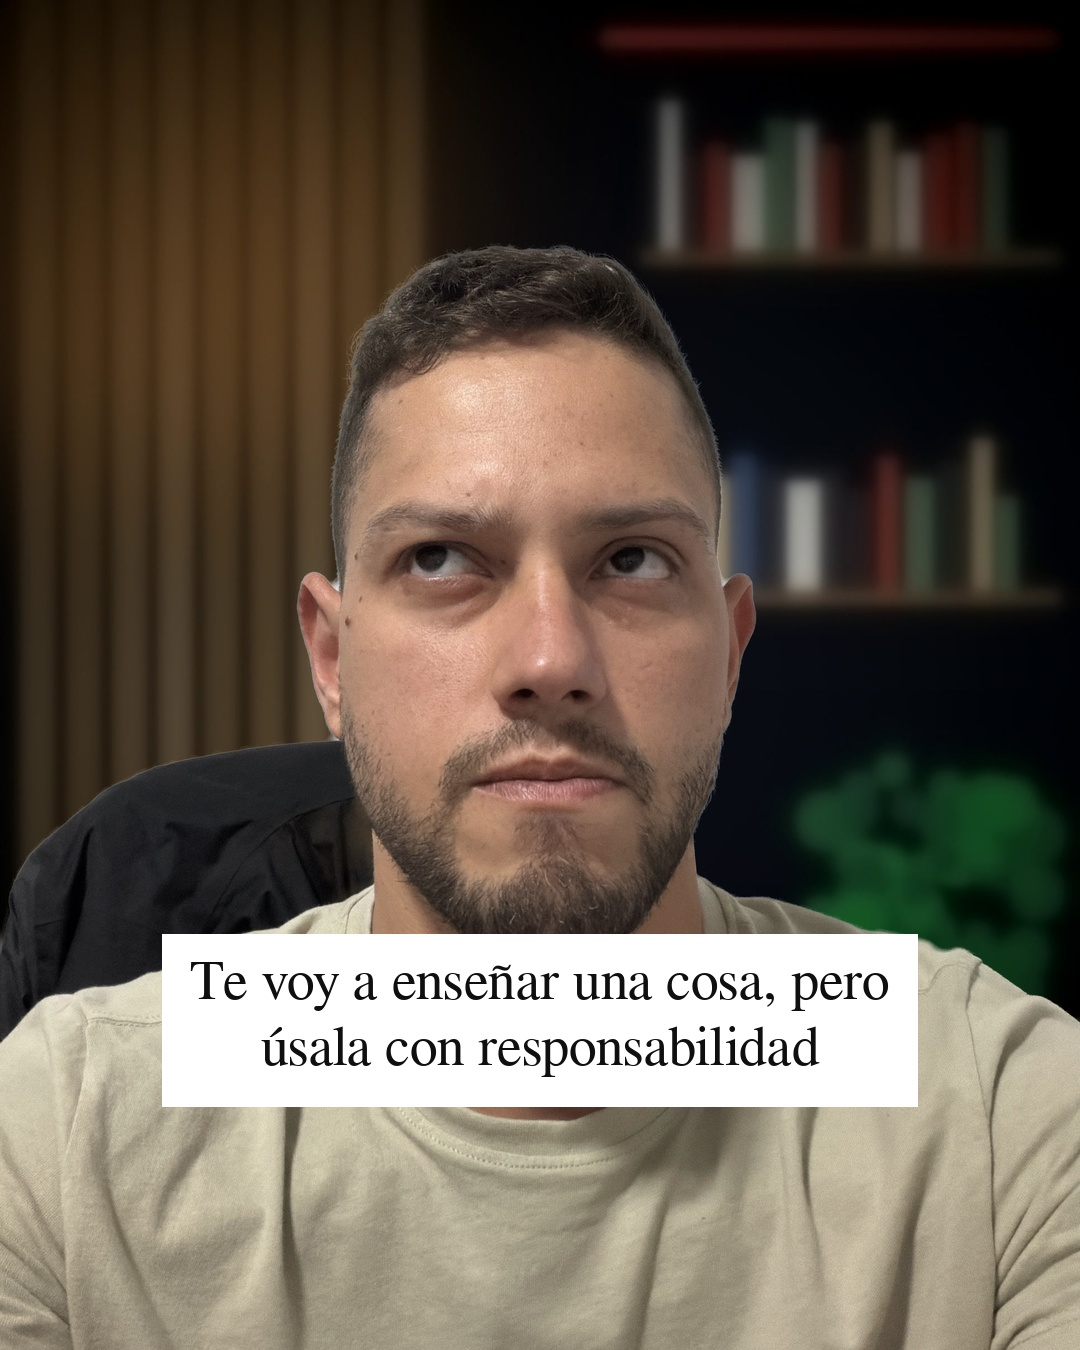
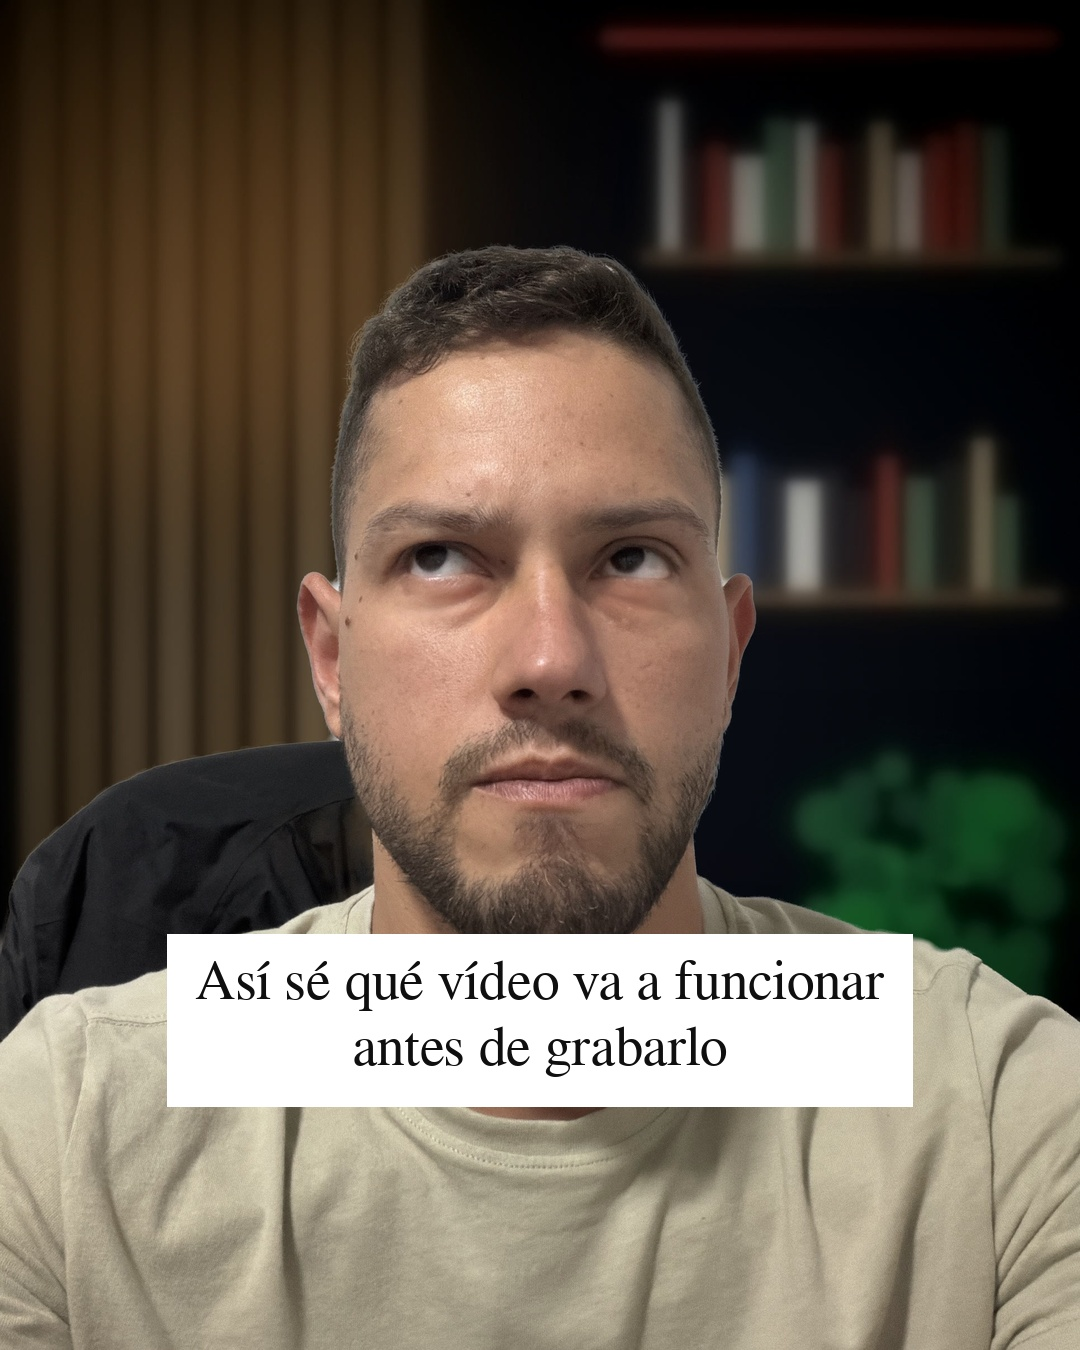
carrusel truco Claude: nueva portada y retoque (S44)
Claude-Session: https://claude.ai/code/session_019DyBrHCbMVoQvLSjnT47qN

Changed region(s): [[0.1833, 0.6844, 0.8556, 0.8089], [0.55, 0.4044, 0.6417, 0.4667], [0.3667, 0.4044, 0.4583, 0.4667]]

diff --git a/semanas/2026-S44/instagram/2026-10-29_carrusel-truco-claude.md b/semanas/2026-S44/instagram/2026-10-29_carrusel-truco-claude.md
@@ -5,7 +5,7 @@ Plataforma: Instagram (carrusel, 8 diapositivas) / TikTok (fotos) · Tipo: carru
 Basado en la estructura de un carrusel brasileño (luanamariamarina), cambiando lo que enseñaba (sacar datos de seguidores, problema legal) por un análisis de contenido público.
 Fotos de Breno con el fondo de la oficina cambiado por el estudio. Capturas reales de su Claude; chats de la barra lateral fuera y la cara de la creadora del reel difuminada.
 
-1. Te voy a enseñar una cosa, pero úsala con responsabilidad
+1. Así sé qué vídeo va a funcionar antes de grabarlo
 2. Abre Claude
 3. Antes, guárdalo y compártelo con ese amigo que crea contenido
 4. Busca una cuenta grande de tu nicho
